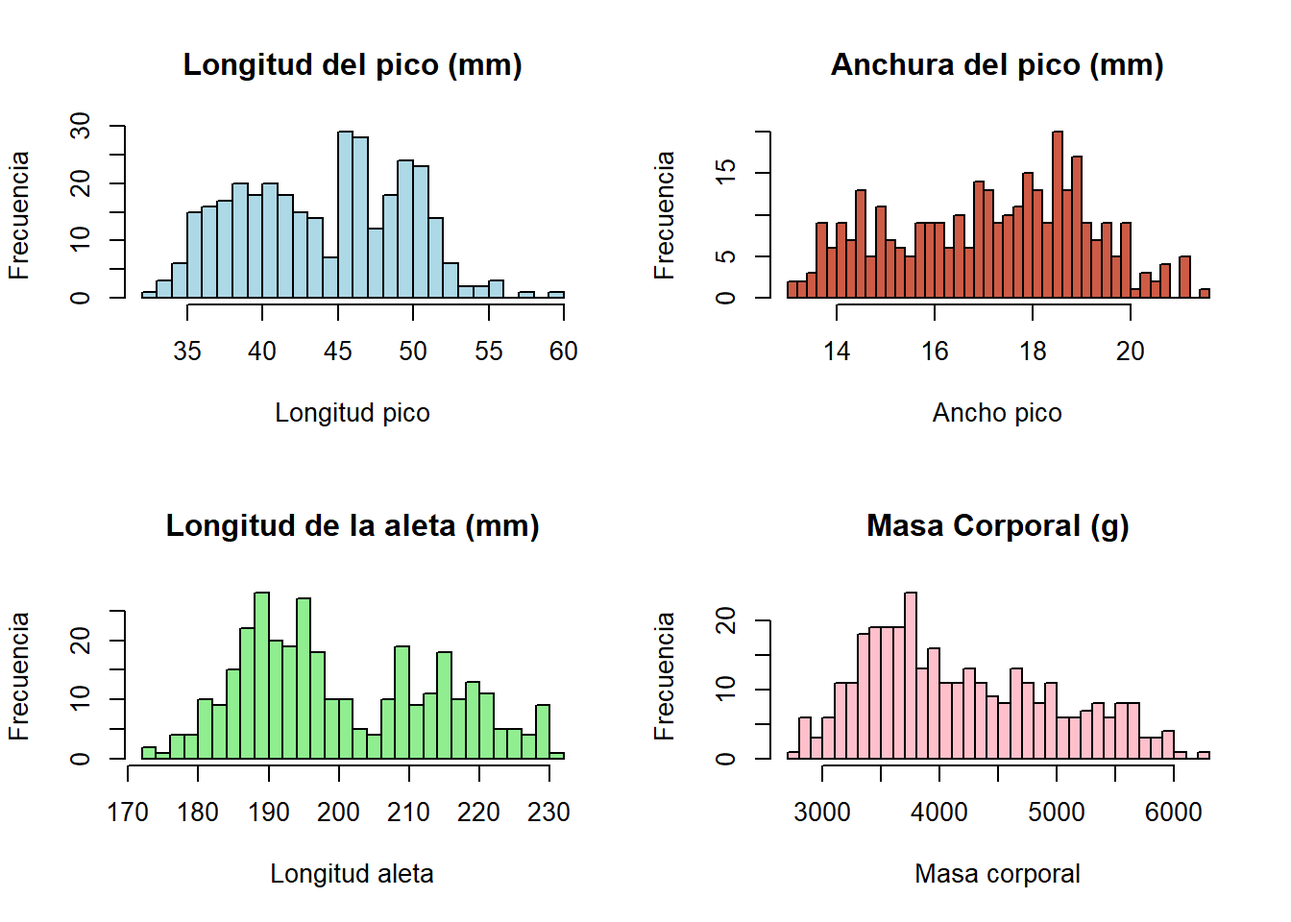
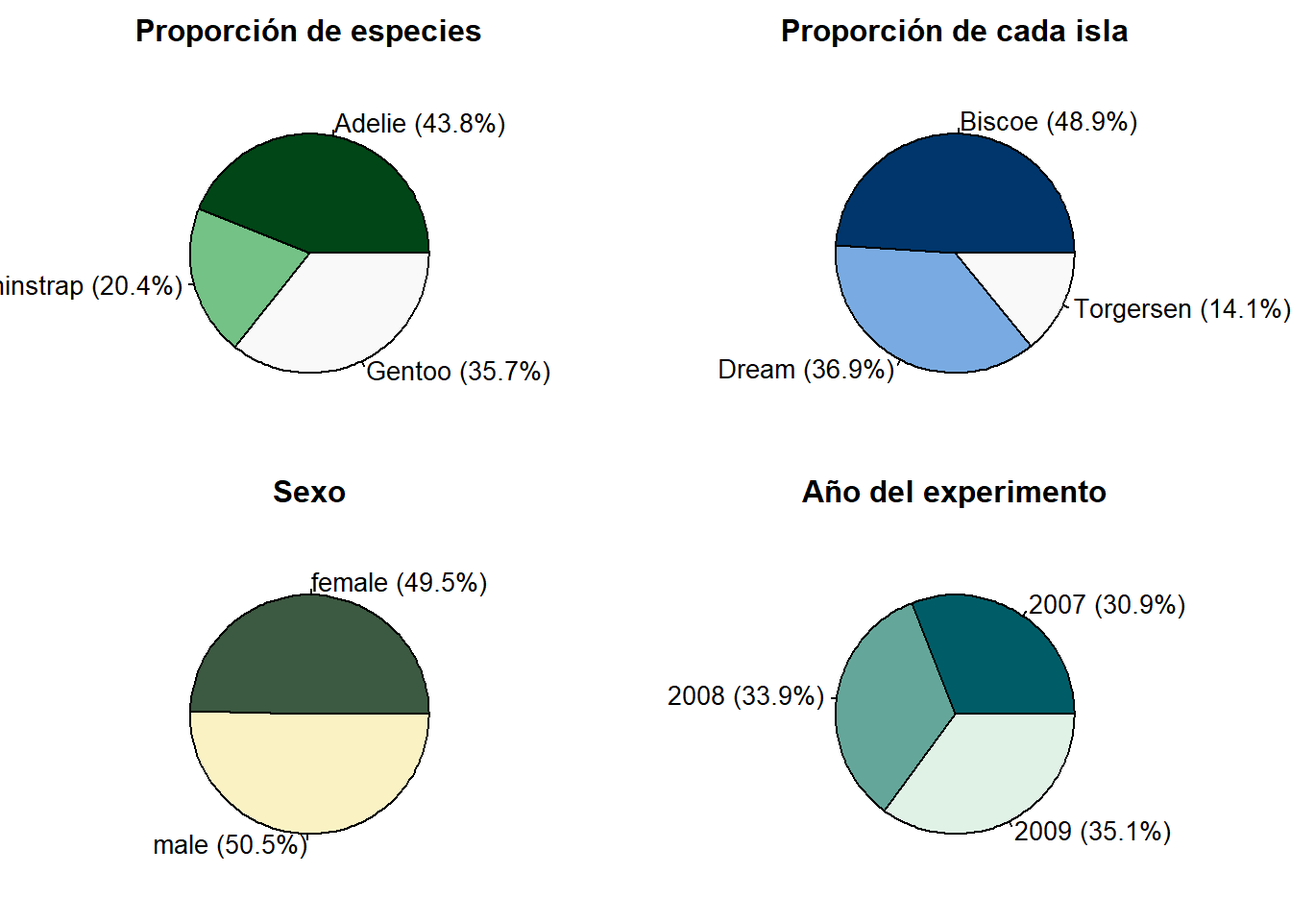
cambios Xisco Irene

diff --git a/prueba.html b/prueba.html
@@ -181,10 +181,11 @@ pre > code.sourceCode > span > a:first-child::before { text-decoration: underlin
 # ℹ 2 more variables: sex &lt;fct&gt;, year &lt;int&gt;</code></pre>
 </div>
 </div>
-<p>Primero de todo, observemos que hay muestras que tienen valores desconocidos (NA), por tanto, vamos a eliminar dichas observaciones:</p>
+<p>Primero de todo, observemos que hay muestras que tienen valores desconocidos (NA), por tanto, vamos a eliminar dichas observaciones. Además, la variable <code>year</code> conviene que sea del tipo factor:</p>
 <div class="cell">
 <div class="sourceCode cell-code" id="cb6"><pre class="sourceCode r code-with-copy"><code class="sourceCode r"><span id="cb6-1"><a href="#cb6-1" aria-hidden="true" tabindex="-1"></a>datos <span class="ot">=</span> <span class="fu">na.omit</span>(datos)</span>
-<span id="cb6-2"><a href="#cb6-2" aria-hidden="true" tabindex="-1"></a><span class="fu">summary</span>(datos)</span></code><button title="Copy to Clipboard" class="code-copy-button"><i class="bi"></i></button></pre></div>
+<span id="cb6-2"><a href="#cb6-2" aria-hidden="true" tabindex="-1"></a>datos<span class="sc">$</span>year <span class="ot">=</span> <span class="fu">as.factor</span>(datos<span class="sc">$</span>year)</span>
+<span id="cb6-3"><a href="#cb6-3" aria-hidden="true" tabindex="-1"></a><span class="fu">summary</span>(datos)</span></code><button title="Copy to Clipboard" class="code-copy-button"><i class="bi"></i></button></pre></div>
 <div class="cell-output cell-output-stdout">
 <pre><code>      species          island    bill_length_mm  bill_depth_mm  
  Adelie   :146   Biscoe   :163   Min.   :32.10   Min.   :13.10  
@@ -193,13 +194,13 @@ pre > code.sourceCode > span > a:first-child::before { text-decoration: underlin
                                  Mean   :43.99   Mean   :17.16  
                                  3rd Qu.:48.60   3rd Qu.:18.70  
                                  Max.   :59.60   Max.   :21.50  
- flipper_length_mm  body_mass_g       sex           year     
- Min.   :172       Min.   :2700   female:165   Min.   :2007  
- 1st Qu.:190       1st Qu.:3550   male  :168   1st Qu.:2007  
- Median :197       Median :4050                Median :2008  
- Mean   :201       Mean   :4207                Mean   :2008  
- 3rd Qu.:213       3rd Qu.:4775                3rd Qu.:2009  
- Max.   :231       Max.   :6300                Max.   :2009  </code></pre>
+ flipper_length_mm  body_mass_g       sex        year    
+ Min.   :172       Min.   :2700   female:165   2007:103  
+ 1st Qu.:190       1st Qu.:3550   male  :168   2008:113  
+ Median :197       Median :4050                2009:117  
+ Mean   :201       Mean   :4207                          
+ 3rd Qu.:213       3rd Qu.:4775                          
+ Max.   :231       Max.   :6300                          </code></pre>
 </div>
 </div>
 <section id="gráficos" class="level2">
@@ -219,21 +220,32 @@ pre > code.sourceCode > span > a:first-child::before { text-decoration: underlin
 <p><img src="prueba_files/figure-html/unnamed-chunk-4-1.png" class="img-fluid" width="672"></p>
 </div>
 </div>
+<div class="cell">
+<div class="sourceCode cell-code" id="cb9"><pre class="sourceCode r code-with-copy"><code class="sourceCode r"><span id="cb9-1"><a href="#cb9-1" aria-hidden="true" tabindex="-1"></a><span class="fu">par</span>(<span class="at">plt =</span> <span class="fu">c</span>(<span class="fl">0.1</span>, <span class="fl">0.86</span>, <span class="fl">0.1</span>, <span class="fl">0.8</span>))</span>
+<span id="cb9-2"><a href="#cb9-2" aria-hidden="true" tabindex="-1"></a><span class="fu">par</span>(<span class="at">mfrow=</span><span class="fu">c</span>(<span class="dv">2</span>,<span class="dv">2</span>))</span>
+<span id="cb9-3"><a href="#cb9-3" aria-hidden="true" tabindex="-1"></a><span class="fu">pie</span>(<span class="fu">table</span>(datos<span class="sc">$</span>species), <span class="at">labels =</span> <span class="fu">paste0</span>(<span class="fu">names</span>(<span class="fu">table</span>(datos<span class="sc">$</span>species)), <span class="st">" ("</span>, <span class="fu">round</span>(<span class="fu">prop.table</span>(<span class="fu">table</span>(datos<span class="sc">$</span>species)) <span class="sc">*</span> <span class="dv">100</span>, <span class="dv">1</span>), <span class="st">"%)"</span>), <span class="at">col =</span> <span class="fu">hcl.colors</span>(<span class="dv">3</span>, <span class="st">"Greens 3"</span>), <span class="at">main =</span> <span class="st">"Proporción de especies"</span>)</span>
+<span id="cb9-4"><a href="#cb9-4" aria-hidden="true" tabindex="-1"></a><span class="fu">pie</span>(<span class="fu">table</span>(datos<span class="sc">$</span>island), <span class="at">labels =</span> <span class="fu">paste0</span>(<span class="fu">names</span>(<span class="fu">table</span>(datos<span class="sc">$</span>island)), <span class="st">" ("</span>, <span class="fu">round</span>(<span class="fu">prop.table</span>(<span class="fu">table</span>(datos<span class="sc">$</span>island)) <span class="sc">*</span> <span class="dv">100</span>, <span class="dv">1</span>), <span class="st">"%)"</span>), <span class="at">col =</span> <span class="fu">hcl.colors</span>(<span class="dv">3</span>, <span class="st">"Blues 3"</span>), <span class="at">main =</span> <span class="st">"Proporción de cada isla"</span>)</span>
+<span id="cb9-5"><a href="#cb9-5" aria-hidden="true" tabindex="-1"></a><span class="fu">pie</span>(<span class="fu">table</span>(datos<span class="sc">$</span>sex), <span class="at">labels =</span> <span class="fu">paste0</span>(<span class="fu">names</span>(<span class="fu">table</span>(datos<span class="sc">$</span>sex)), <span class="st">" ("</span>, <span class="fu">round</span>(<span class="fu">prop.table</span>(<span class="fu">table</span>(datos<span class="sc">$</span>sex)) <span class="sc">*</span> <span class="dv">100</span>, <span class="dv">1</span>), <span class="st">"%)"</span>), <span class="at">col =</span> <span class="fu">hcl.colors</span>(<span class="dv">3</span>, <span class="st">"Fall"</span>), <span class="at">main =</span> <span class="st">"Sexo"</span>)</span>
+<span id="cb9-6"><a href="#cb9-6" aria-hidden="true" tabindex="-1"></a><span class="fu">pie</span>(<span class="fu">table</span>(datos<span class="sc">$</span>year), <span class="at">labels =</span> <span class="fu">paste0</span>(<span class="fu">names</span>(<span class="fu">table</span>(datos<span class="sc">$</span>year)), <span class="st">" ("</span>, <span class="fu">round</span>(<span class="fu">prop.table</span>(<span class="fu">table</span>(datos<span class="sc">$</span>year)) <span class="sc">*</span> <span class="dv">100</span>, <span class="dv">1</span>), <span class="st">"%)"</span>), <span class="at">col =</span> <span class="fu">hcl.colors</span>(<span class="dv">3</span>, <span class="st">"Mint"</span>), <span class="at">main =</span> <span class="st">"Año del experimento"</span>)</span></code><button title="Copy to Clipboard" class="code-copy-button"><i class="bi"></i></button></pre></div>
+<div class="cell-output-display">
+<p><img src="prueba_files/figure-html/unnamed-chunk-5-1.png" class="img-fluid" width="672"></p>
+</div>
+</div>
 </section>
 <section id="histogramas" class="level3">
 <h3 class="anchored" data-anchor-id="histogramas">Histogramas</h3>
 <p>A continuación, realizaremos unos histogramas de las variables <code>bill_length_mm</code>, <code>bill_depth_mm</code>, <code>flipper_length_mm</code> y <code>body_mass_g</code> para ver a simple vista la distribución de la población.</p>
 <div class="cell">
-<div class="sourceCode cell-code" id="cb9"><pre class="sourceCode r code-with-copy"><code class="sourceCode r"><span id="cb9-1"><a href="#cb9-1" aria-hidden="true" tabindex="-1"></a><span class="fu">par</span>(<span class="at">mfrow=</span><span class="fu">c</span>(<span class="dv">2</span>,<span class="dv">2</span>))</span>
-<span id="cb9-2"><a href="#cb9-2" aria-hidden="true" tabindex="-1"></a><span class="fu">hist</span>(datos<span class="sc">$</span>bill_length_mm, <span class="at">main=</span><span class="st">'Longitud del pico (mm)'</span>, <span class="at">breaks =</span> <span class="dv">30</span>, <span class="at">col =</span> <span class="st">'lightblue'</span>,</span>
-<span id="cb9-3"><a href="#cb9-3" aria-hidden="true" tabindex="-1"></a>     <span class="at">xlab =</span> <span class="st">"Longitud pico"</span>, <span class="at">ylab =</span> <span class="st">"Frecuencia"</span>)</span>
-<span id="cb9-4"><a href="#cb9-4" aria-hidden="true" tabindex="-1"></a><span class="fu">hist</span>(datos<span class="sc">$</span>bill_depth_mm, <span class="at">main=</span><span class="st">'Anchura del pico (mm)'</span>, <span class="at">breaks =</span> <span class="dv">35</span>, <span class="at">col =</span> <span class="st">'coral3'</span>,</span>
-<span id="cb9-5"><a href="#cb9-5" aria-hidden="true" tabindex="-1"></a>     <span class="at">xlab =</span> <span class="st">"Ancho pico"</span>, <span class="at">ylab =</span> <span class="st">"Frecuencia"</span>)</span>
-<span id="cb9-6"><a href="#cb9-6" aria-hidden="true" tabindex="-1"></a><span class="fu">hist</span>(datos<span class="sc">$</span>flipper_length_mm, <span class="at">main=</span><span class="st">'Longitud de la aleta (mm)'</span>, <span class="at">breaks =</span> <span class="dv">30</span>, <span class="at">col =</span> <span class="st">'lightgreen'</span>, <span class="at">xlab =</span> <span class="st">"Longitud aleta"</span>, <span class="at">ylab =</span> <span class="st">"Frecuencia"</span>)</span>
-<span id="cb9-7"><a href="#cb9-7" aria-hidden="true" tabindex="-1"></a><span class="fu">hist</span>(datos<span class="sc">$</span>body_mass_g, <span class="at">main=</span><span class="st">'Masa Corporal (g)'</span>, <span class="at">breaks =</span> <span class="dv">30</span>, <span class="at">col =</span> <span class="st">'pink'</span>,</span>
-<span id="cb9-8"><a href="#cb9-8" aria-hidden="true" tabindex="-1"></a>     <span class="at">xlab =</span> <span class="st">"Masa corporal"</span>, <span class="at">ylab =</span> <span class="st">"Frecuencia"</span>)</span></code><button title="Copy to Clipboard" class="code-copy-button"><i class="bi"></i></button></pre></div>
+<div class="sourceCode cell-code" id="cb10"><pre class="sourceCode r code-with-copy"><code class="sourceCode r"><span id="cb10-1"><a href="#cb10-1" aria-hidden="true" tabindex="-1"></a><span class="fu">par</span>(<span class="at">mfrow=</span><span class="fu">c</span>(<span class="dv">2</span>,<span class="dv">2</span>))</span>
+<span id="cb10-2"><a href="#cb10-2" aria-hidden="true" tabindex="-1"></a><span class="fu">hist</span>(datos<span class="sc">$</span>bill_length_mm, <span class="at">main=</span><span class="st">'Longitud del pico (mm)'</span>, <span class="at">breaks =</span> <span class="dv">30</span>, <span class="at">col =</span> <span class="st">'lightblue'</span>,</span>
+<span id="cb10-3"><a href="#cb10-3" aria-hidden="true" tabindex="-1"></a>     <span class="at">xlab =</span> <span class="st">"Longitud pico"</span>, <span class="at">ylab =</span> <span class="st">"Frecuencia"</span>)</span>
+<span id="cb10-4"><a href="#cb10-4" aria-hidden="true" tabindex="-1"></a><span class="fu">hist</span>(datos<span class="sc">$</span>bill_depth_mm, <span class="at">main=</span><span class="st">'Anchura del pico (mm)'</span>, <span class="at">breaks =</span> <span class="dv">35</span>, <span class="at">col =</span> <span class="st">'coral3'</span>,</span>
+<span id="cb10-5"><a href="#cb10-5" aria-hidden="true" tabindex="-1"></a>     <span class="at">xlab =</span> <span class="st">"Ancho pico"</span>, <span class="at">ylab =</span> <span class="st">"Frecuencia"</span>)</span>
+<span id="cb10-6"><a href="#cb10-6" aria-hidden="true" tabindex="-1"></a><span class="fu">hist</span>(datos<span class="sc">$</span>flipper_length_mm, <span class="at">main=</span><span class="st">'Longitud de la aleta (mm)'</span>, <span class="at">breaks =</span> <span class="dv">30</span>, <span class="at">col =</span> <span class="st">'lightgreen'</span>, <span class="at">xlab =</span> <span class="st">"Longitud aleta"</span>, <span class="at">ylab =</span> <span class="st">"Frecuencia"</span>)</span>
+<span id="cb10-7"><a href="#cb10-7" aria-hidden="true" tabindex="-1"></a><span class="fu">hist</span>(datos<span class="sc">$</span>body_mass_g, <span class="at">main=</span><span class="st">'Masa Corporal (g)'</span>, <span class="at">breaks =</span> <span class="dv">30</span>, <span class="at">col =</span> <span class="st">'pink'</span>,</span>
+<span id="cb10-8"><a href="#cb10-8" aria-hidden="true" tabindex="-1"></a>     <span class="at">xlab =</span> <span class="st">"Masa corporal"</span>, <span class="at">ylab =</span> <span class="st">"Frecuencia"</span>)</span></code><button title="Copy to Clipboard" class="code-copy-button"><i class="bi"></i></button></pre></div>
 <div class="cell-output-display">
-<p><img src="prueba_files/figure-html/unnamed-chunk-5-1.png" class="img-fluid" width="672"></p>
+<p><img src="prueba_files/figure-html/unnamed-chunk-6-1.png" class="img-fluid" width="672"></p>
 </div>
 </div>
 </section>
@@ -244,23 +256,23 @@ pre > code.sourceCode > span > a:first-child::before { text-decoration: underlin
 <p>Comparemos las medias de las variables cuantitativas en función de cada especie, que corresponden con las características físicas de cada pingüino.</p>
 <p>Para ello, dividamos el data frame por especies:</p>
 <div class="cell">
-<div class="sourceCode cell-code" id="cb10"><pre class="sourceCode r code-with-copy"><code class="sourceCode r"><span id="cb10-1"><a href="#cb10-1" aria-hidden="true" tabindex="-1"></a>ping_adelie <span class="ot">=</span> datos[datos<span class="sc">$</span>species<span class="sc">==</span><span class="st">"Adelie"</span>,]</span>
-<span id="cb10-2"><a href="#cb10-2" aria-hidden="true" tabindex="-1"></a>ping_chinstrap <span class="ot">=</span> datos[datos<span class="sc">$</span>species<span class="sc">==</span><span class="st">"Chinstrap"</span>,]</span>
-<span id="cb10-3"><a href="#cb10-3" aria-hidden="true" tabindex="-1"></a>ping_gentoo <span class="ot">=</span> datos[datos<span class="sc">$</span>species<span class="sc">==</span><span class="st">"Gentoo"</span>,]</span></code><button title="Copy to Clipboard" class="code-copy-button"><i class="bi"></i></button></pre></div>
+<div class="sourceCode cell-code" id="cb11"><pre class="sourceCode r code-with-copy"><code class="sourceCode r"><span id="cb11-1"><a href="#cb11-1" aria-hidden="true" tabindex="-1"></a>ping_adelie <span class="ot">=</span> datos[datos<span class="sc">$</span>species<span class="sc">==</span><span class="st">"Adelie"</span>,]</span>
+<span id="cb11-2"><a href="#cb11-2" aria-hidden="true" tabindex="-1"></a>ping_chinstrap <span class="ot">=</span> datos[datos<span class="sc">$</span>species<span class="sc">==</span><span class="st">"Chinstrap"</span>,]</span>
+<span id="cb11-3"><a href="#cb11-3" aria-hidden="true" tabindex="-1"></a>ping_gentoo <span class="ot">=</span> datos[datos<span class="sc">$</span>species<span class="sc">==</span><span class="st">"Gentoo"</span>,]</span></code><button title="Copy to Clipboard" class="code-copy-button"><i class="bi"></i></button></pre></div>
 </div>
 <section id="longitud-del-pico" class="level2">
 <h2 class="anchored" data-anchor-id="longitud-del-pico">Longitud del pico</h2>
 <p>Veamos la media de la longitud del pico de cada especie</p>
 <div class="cell">
-<div class="sourceCode cell-code" id="cb11"><pre class="sourceCode r code-with-copy"><code class="sourceCode r"><span id="cb11-1"><a href="#cb11-1" aria-hidden="true" tabindex="-1"></a><span class="fu">mean</span>(ping_adelie<span class="sc">$</span>bill_length_mm)</span></code><button title="Copy to Clipboard" class="code-copy-button"><i class="bi"></i></button></pre></div>
+<div class="sourceCode cell-code" id="cb12"><pre class="sourceCode r code-with-copy"><code class="sourceCode r"><span id="cb12-1"><a href="#cb12-1" aria-hidden="true" tabindex="-1"></a><span class="fu">mean</span>(ping_adelie<span class="sc">$</span>bill_length_mm)</span></code><button title="Copy to Clipboard" class="code-copy-button"><i class="bi"></i></button></pre></div>
 <div class="cell-output cell-output-stdout">
 <pre><code>[1] 38.82397</code></pre>
 </div>
-<div class="sourceCode cell-code" id="cb13"><pre class="sourceCode r code-with-copy"><code class="sourceCode r"><span id="cb13-1"><a href="#cb13-1" aria-hidden="true" tabindex="-1"></a><span class="fu">mean</span>(ping_chinstrap<span class="sc">$</span>bill_length_mm)</span></code><button title="Copy to Clipboard" class="code-copy-button"><i class="bi"></i></button></pre></div>
+<div class="sourceCode cell-code" id="cb14"><pre class="sourceCode r code-with-copy"><code class="sourceCode r"><span id="cb14-1"><a href="#cb14-1" aria-hidden="true" tabindex="-1"></a><span class="fu">mean</span>(ping_chinstrap<span class="sc">$</span>bill_length_mm)</span></code><button title="Copy to Clipboard" class="code-copy-button"><i class="bi"></i></button></pre></div>
 <div class="cell-output cell-output-stdout">
 <pre><code>[1] 48.83382</code></pre>
 </div>
-<div class="sourceCode cell-code" id="cb15"><pre class="sourceCode r code-with-copy"><code class="sourceCode r"><span id="cb15-1"><a href="#cb15-1" aria-hidden="true" tabindex="-1"></a><span class="fu">mean</span>(ping_gentoo<span class="sc">$</span>bill_length_mm)</span></code><button title="Copy to Clipboard" class="code-copy-button"><i class="bi"></i></button></pre></div>
+<div class="sourceCode cell-code" id="cb16"><pre class="sourceCode r code-with-copy"><code class="sourceCode r"><span id="cb16-1"><a href="#cb16-1" aria-hidden="true" tabindex="-1"></a><span class="fu">mean</span>(ping_gentoo<span class="sc">$</span>bill_length_mm)</span></code><button title="Copy to Clipboard" class="code-copy-button"><i class="bi"></i></button></pre></div>
 <div class="cell-output cell-output-stdout">
 <pre><code>[1] 47.56807</code></pre>
 </div>
@@ -268,22 +280,22 @@ pre > code.sourceCode > span > a:first-child::before { text-decoration: underlin
 <p>Notemos que los pinguinos de especie <code>Adelie</code> de media tienen el pico mas corto que las otras dos especies.</p>
 <div class="cell">
 <div class="cell-output-display">
-<p><img src="prueba_files/figure-html/unnamed-chunk-8-1.png" class="img-fluid" width="672"></p>
+<p><img src="prueba_files/figure-html/unnamed-chunk-9-1.png" class="img-fluid" width="672"></p>
 </div>
 </div>
 </section>
 <section id="ancho-del-pico" class="level2">
 <h2 class="anchored" data-anchor-id="ancho-del-pico">Ancho del pico</h2>
 <div class="cell">
-<div class="sourceCode cell-code" id="cb17"><pre class="sourceCode r code-with-copy"><code class="sourceCode r"><span id="cb17-1"><a href="#cb17-1" aria-hidden="true" tabindex="-1"></a><span class="fu">mean</span>(ping_adelie<span class="sc">$</span>bill_depth_mm)</span></code><button title="Copy to Clipboard" class="code-copy-button"><i class="bi"></i></button></pre></div>
+<div class="sourceCode cell-code" id="cb18"><pre class="sourceCode r code-with-copy"><code class="sourceCode r"><span id="cb18-1"><a href="#cb18-1" aria-hidden="true" tabindex="-1"></a><span class="fu">mean</span>(ping_adelie<span class="sc">$</span>bill_depth_mm)</span></code><button title="Copy to Clipboard" class="code-copy-button"><i class="bi"></i></button></pre></div>
 <div class="cell-output cell-output-stdout">
 <pre><code>[1] 18.34726</code></pre>
 </div>
-<div class="sourceCode cell-code" id="cb19"><pre class="sourceCode r code-with-copy"><code class="sourceCode r"><span id="cb19-1"><a href="#cb19-1" aria-hidden="true" tabindex="-1"></a><span class="fu">mean</span>(ping_chinstrap<span class="sc">$</span>bill_depth_mm)</span></code><button title="Copy to Clipboard" class="code-copy-button"><i class="bi"></i></button></pre></div>
+<div class="sourceCode cell-code" id="cb20"><pre class="sourceCode r code-with-copy"><code class="sourceCode r"><span id="cb20-1"><a href="#cb20-1" aria-hidden="true" tabindex="-1"></a><span class="fu">mean</span>(ping_chinstrap<span class="sc">$</span>bill_depth_mm)</span></code><button title="Copy to Clipboard" class="code-copy-button"><i class="bi"></i></button></pre></div>
 <div class="cell-output cell-output-stdout">
 <pre><code>[1] 18.42059</code></pre>
 </div>
-<div class="sourceCode cell-code" id="cb21"><pre class="sourceCode r code-with-copy"><code class="sourceCode r"><span id="cb21-1"><a href="#cb21-1" aria-hidden="true" tabindex="-1"></a><span class="fu">mean</span>(ping_gentoo<span class="sc">$</span>bill_depth_mm)</span></code><button title="Copy to Clipboard" class="code-copy-button"><i class="bi"></i></button></pre></div>
+<div class="sourceCode cell-code" id="cb22"><pre class="sourceCode r code-with-copy"><code class="sourceCode r"><span id="cb22-1"><a href="#cb22-1" aria-hidden="true" tabindex="-1"></a><span class="fu">mean</span>(ping_gentoo<span class="sc">$</span>bill_depth_mm)</span></code><button title="Copy to Clipboard" class="code-copy-button"><i class="bi"></i></button></pre></div>
 <div class="cell-output cell-output-stdout">
 <pre><code>[1] 14.99664</code></pre>
 </div>
@@ -291,22 +303,22 @@ pre > code.sourceCode > span > a:first-child::before { text-decoration: underlin
 <p>Notemos que los pinguinos de especie <code>Gentoo</code> de media tienen el pico menos ancho que las otras dos especies.</p>
 <div class="cell">
 <div class="cell-output-display">
-<p><img src="prueba_files/figure-html/unnamed-chunk-10-1.png" class="img-fluid" width="672"></p>
+<p><img src="prueba_files/figure-html/unnamed-chunk-11-1.png" class="img-fluid" width="672"></p>
 </div>
 </div>
 </section>
 <section id="longitud-de-la-aleta" class="level2">
 <h2 class="anchored" data-anchor-id="longitud-de-la-aleta">Longitud de la aleta</h2>
 <div class="cell">
-<div class="sourceCode cell-code" id="cb23"><pre class="sourceCode r code-with-copy"><code class="sourceCode r"><span id="cb23-1"><a href="#cb23-1" aria-hidden="true" tabindex="-1"></a><span class="fu">mean</span>(ping_adelie<span class="sc">$</span>flipper_length_mm)</span></code><button title="Copy to Clipboard" class="code-copy-button"><i class="bi"></i></button></pre></div>
+<div class="sourceCode cell-code" id="cb24"><pre class="sourceCode r code-with-copy"><code class="sourceCode r"><span id="cb24-1"><a href="#cb24-1" aria-hidden="true" tabindex="-1"></a><span class="fu">mean</span>(ping_adelie<span class="sc">$</span>flipper_length_mm)</span></code><button title="Copy to Clipboard" class="code-copy-button"><i class="bi"></i></button></pre></div>
 <div class="cell-output cell-output-stdout">
 <pre><code>[1] 190.1027</code></pre>
 </div>
-<div class="sourceCode cell-code" id="cb25"><pre class="sourceCode r code-with-copy"><code class="sourceCode r"><span id="cb25-1"><a href="#cb25-1" aria-hidden="true" tabindex="-1"></a><span class="fu">mean</span>(ping_chinstrap<span class="sc">$</span>flipper_length_mm)</span></code><button title="Copy to Clipboard" class="code-copy-button"><i class="bi"></i></button></pre></div>
+<div class="sourceCode cell-code" id="cb26"><pre class="sourceCode r code-with-copy"><code class="sourceCode r"><span id="cb26-1"><a href="#cb26-1" aria-hidden="true" tabindex="-1"></a><span class="fu">mean</span>(ping_chinstrap<span class="sc">$</span>flipper_length_mm)</span></code><button title="Copy to Clipboard" class="code-copy-button"><i class="bi"></i></button></pre></div>
 <div class="cell-output cell-output-stdout">
 <pre><code>[1] 195.8235</code></pre>
 </div>
-<div class="sourceCode cell-code" id="cb27"><pre class="sourceCode r code-with-copy"><code class="sourceCode r"><span id="cb27-1"><a href="#cb27-1" aria-hidden="true" tabindex="-1"></a><span class="fu">mean</span>(ping_gentoo<span class="sc">$</span>flipper_length_mm)</span></code><button title="Copy to Clipboard" class="code-copy-button"><i class="bi"></i></button></pre></div>
+<div class="sourceCode cell-code" id="cb28"><pre class="sourceCode r code-with-copy"><code class="sourceCode r"><span id="cb28-1"><a href="#cb28-1" aria-hidden="true" tabindex="-1"></a><span class="fu">mean</span>(ping_gentoo<span class="sc">$</span>flipper_length_mm)</span></code><button title="Copy to Clipboard" class="code-copy-button"><i class="bi"></i></button></pre></div>
 <div class="cell-output cell-output-stdout">
 <pre><code>[1] 217.2353</code></pre>
 </div>
@@ -314,16 +326,16 @@ pre > code.sourceCode > span > a:first-child::before { text-decoration: underlin
 <p>Notemos que los pinguinos de especie <code>Gentoo</code> de media tienen la aleta más larga que las otras dos especies.</p>
 <div class="cell">
 <div class="cell-output-display">
-<p><img src="prueba_files/figure-html/unnamed-chunk-12-1.png" class="img-fluid" width="672"></p>
+<p><img src="prueba_files/figure-html/unnamed-chunk-13-1.png" class="img-fluid" width="672"></p>
 </div>
 </div>
 </section>
 <section id="masa-corporal" class="level2">
 <h2 class="anchored" data-anchor-id="masa-corporal">Masa corporal</h2>
 <div class="cell">
-<div class="sourceCode cell-code" id="cb29"><pre class="sourceCode r code-with-copy"><code class="sourceCode r"><span id="cb29-1"><a href="#cb29-1" aria-hidden="true" tabindex="-1"></a><span class="fu">mean</span>(ping_adelie<span class="sc">$</span>body_mass_g)</span>
-<span id="cb29-2"><a href="#cb29-2" aria-hidden="true" tabindex="-1"></a><span class="fu">mean</span>(ping_chinstrap<span class="sc">$</span>body_mass_g)</span>
-<span id="cb29-3"><a href="#cb29-3" aria-hidden="true" tabindex="-1"></a><span class="fu">mean</span>(ping_gentoo<span class="sc">$</span>body_mass_g)</span></code><button title="Copy to Clipboard" class="code-copy-button"><i class="bi"></i></button></pre></div>
+<div class="sourceCode cell-code" id="cb30"><pre class="sourceCode r code-with-copy"><code class="sourceCode r"><span id="cb30-1"><a href="#cb30-1" aria-hidden="true" tabindex="-1"></a><span class="fu">mean</span>(ping_adelie<span class="sc">$</span>body_mass_g)</span>
+<span id="cb30-2"><a href="#cb30-2" aria-hidden="true" tabindex="-1"></a><span class="fu">mean</span>(ping_chinstrap<span class="sc">$</span>body_mass_g)</span>
+<span id="cb30-3"><a href="#cb30-3" aria-hidden="true" tabindex="-1"></a><span class="fu">mean</span>(ping_gentoo<span class="sc">$</span>body_mass_g)</span></code><button title="Copy to Clipboard" class="code-copy-button"><i class="bi"></i></button></pre></div>
 <div class="cell-output cell-output-stdout">
 <pre><code>[1] 3706.164
 [1] 3733.088
@@ -333,7 +345,7 @@ pre > code.sourceCode > span > a:first-child::before { text-decoration: underlin
 <p>Notemos que los pinguinos de especie <code>Gentoo</code> de media tienen mas masa corporal que las otras dos especies. Y como hemos visto en el apartado de correlación, seguramente se debe a que la especie <code>Gentoo</code> es más grande que las otras dos.</p>
 <div class="cell">
 <div class="cell-output-display">
-<p><img src="prueba_files/figure-html/unnamed-chunk-14-1.png" class="img-fluid" width="672"></p>
+<p><img src="prueba_files/figure-html/unnamed-chunk-15-1.png" class="img-fluid" width="672"></p>
 </div>
 </div>
 </section>
@@ -342,12 +354,12 @@ pre > code.sourceCode > span > a:first-child::before { text-decoration: underlin
 <h1>Correlación de las variables</h1>
 <p>Veamos si existe correlación, tanto positiva como negativa de las variables numéricas. Para ello, mostraremos una matriz de correlaciones.</p>
 <div class="cell">
-<div class="sourceCode cell-code" id="cb31"><pre class="sourceCode r code-with-copy"><code class="sourceCode r"><span id="cb31-1"><a href="#cb31-1" aria-hidden="true" tabindex="-1"></a><span class="fu">library</span>(psych)</span>
-<span id="cb31-2"><a href="#cb31-2" aria-hidden="true" tabindex="-1"></a>datos2 <span class="ot">=</span> datos[,<span class="fu">c</span>(<span class="sc">-</span><span class="dv">1</span>,<span class="sc">-</span><span class="dv">2</span>,<span class="sc">-</span><span class="dv">7</span>,<span class="sc">-</span><span class="dv">8</span>)] <span class="co"># eliminamos las variables no numéricas</span></span>
-<span id="cb31-3"><a href="#cb31-3" aria-hidden="true" tabindex="-1"></a>nombres <span class="ot">=</span> <span class="fu">c</span>(<span class="st">"Longitud pico"</span>, <span class="st">"Ancho pico"</span>, <span class="st">"Longitud aleta"</span>, <span class="st">"Masa corporal"</span>)</span>
-<span id="cb31-4"><a href="#cb31-4" aria-hidden="true" tabindex="-1"></a><span class="fu">corPlot</span>(datos2, <span class="at">cex =</span> <span class="fl">0.8</span>,  <span class="at">main =</span> <span class="st">"Matriz de correlación"</span>, <span class="at">labels =</span> nombres)</span></code><button title="Copy to Clipboard" class="code-copy-button"><i class="bi"></i></button></pre></div>
+<div class="sourceCode cell-code" id="cb32"><pre class="sourceCode r code-with-copy"><code class="sourceCode r"><span id="cb32-1"><a href="#cb32-1" aria-hidden="true" tabindex="-1"></a><span class="fu">library</span>(psych)</span>
+<span id="cb32-2"><a href="#cb32-2" aria-hidden="true" tabindex="-1"></a>datos2 <span class="ot">=</span> datos[,<span class="fu">c</span>(<span class="sc">-</span><span class="dv">1</span>,<span class="sc">-</span><span class="dv">2</span>,<span class="sc">-</span><span class="dv">7</span>,<span class="sc">-</span><span class="dv">8</span>)] <span class="co"># eliminamos las variables no numéricas</span></span>
+<span id="cb32-3"><a href="#cb32-3" aria-hidden="true" tabindex="-1"></a>nombres <span class="ot">=</span> <span class="fu">c</span>(<span class="st">"Longitud pico"</span>, <span class="st">"Ancho pico"</span>, <span class="st">"Longitud aleta"</span>, <span class="st">"Masa corporal"</span>)</span>
+<span id="cb32-4"><a href="#cb32-4" aria-hidden="true" tabindex="-1"></a><span class="fu">corPlot</span>(datos2, <span class="at">cex =</span> <span class="fl">0.8</span>,  <span class="at">main =</span> <span class="st">"Matriz de correlación"</span>, <span class="at">labels =</span> nombres)</span></code><button title="Copy to Clipboard" class="code-copy-button"><i class="bi"></i></button></pre></div>
 <div class="cell-output-display">
-<p><img src="prueba_files/figure-html/unnamed-chunk-15-1.png" class="img-fluid" width="672"></p>
+<p><img src="prueba_files/figure-html/unnamed-chunk-16-1.png" class="img-fluid" width="672"></p>
 </div>
 </div>
 <p>Cabe destacar la correlación fuerte positiva (valor de +0.87) entre la masa corporal y la longitud de las alas de los pingüinos, es decir, a mayor masa corporal, mayor longitud de alas, lo que da a pensar que si hay una especie que tenga, en general, mayor peso, será porque el animal es más grande.</p>
@@ -357,17 +369,17 @@ pre > code.sourceCode > span > a:first-child::before { text-decoration: underlin
 <section id="comparaciones-geográficas" class="level1">
 <h1>Comparaciones geográficas</h1>
 <div class="cell">
-<div class="sourceCode cell-code" id="cb32"><pre class="sourceCode r code-with-copy"><code class="sourceCode r"><span id="cb32-1"><a href="#cb32-1" aria-hidden="true" tabindex="-1"></a><span class="co"># Una vez hemos estudiado las medias de los valores cuantitativos de las características de los pingüinos, podemos ver si hay diferencias entre islas.</span></span>
-<span id="cb32-2"><a href="#cb32-2" aria-hidden="true" tabindex="-1"></a></span>
-<span id="cb32-3"><a href="#cb32-3" aria-hidden="true" tabindex="-1"></a><span class="co"># PENSAR BÉ COM ENFOCAR-HO, ES A DIR, SERIA INTERESSANT VEURE QUINES DADES TENEN MAJOR DISPERSIÓ PER ESTUDIAR SI AFECTA GEOGRAFICAMENT, IE, IMAGINA QUE SURT QUE ES PINGÜINOS GENTOO TENEN ES BEC MES LLARG I A MES MOSTREN DISPERSIO EN SES DADES, PUES POT SER QUE A UNA ILLA, PER ES TIPUS DE MENJAR, TENGUIN ES BEC MES LLARG O MES CURT I FACI ALTERAR SA MITJANA</span></span></code><button title="Copy to Clipboard" class="code-copy-button"><i class="bi"></i></button></pre></div>
+<div class="sourceCode cell-code" id="cb33"><pre class="sourceCode r code-with-copy"><code class="sourceCode r"><span id="cb33-1"><a href="#cb33-1" aria-hidden="true" tabindex="-1"></a><span class="co"># Una vez hemos estudiado las medias de los valores cuantitativos de las características de los pingüinos, podemos ver si hay diferencias entre islas.</span></span>
+<span id="cb33-2"><a href="#cb33-2" aria-hidden="true" tabindex="-1"></a></span>
+<span id="cb33-3"><a href="#cb33-3" aria-hidden="true" tabindex="-1"></a><span class="co"># PENSAR BÉ COM ENFOCAR-HO, ES A DIR, SERIA INTERESSANT VEURE QUINES DADES TENEN MAJOR DISPERSIÓ PER ESTUDIAR SI AFECTA GEOGRAFICAMENT, IE, IMAGINA QUE SURT QUE ES PINGÜINOS GENTOO TENEN ES BEC MES LLARG I A MES MOSTREN DISPERSIO EN SES DADES, PUES POT SER QUE A UNA ILLA, PER ES TIPUS DE MENJAR, TENGUIN ES BEC MES LLARG O MES CURT I FACI ALTERAR SA MITJANA</span></span></code><button title="Copy to Clipboard" class="code-copy-button"><i class="bi"></i></button></pre></div>
 </div>
 <p>En este apartado queremos ver si, a nivel muestral, los pingüinos de diferentes islas presentas diferencias significativas.</p>
 <div class="cell">
-<div class="sourceCode cell-code" id="cb33"><pre class="sourceCode r code-with-copy"><code class="sourceCode r"><span id="cb33-1"><a href="#cb33-1" aria-hidden="true" tabindex="-1"></a>ping_Biscoe <span class="ot">=</span> datos[datos<span class="sc">$</span>island<span class="sc">==</span><span class="st">"Biscoe"</span>,]</span>
-<span id="cb33-2"><a href="#cb33-2" aria-hidden="true" tabindex="-1"></a>ping_Dream <span class="ot">=</span> datos[datos<span class="sc">$</span>island<span class="sc">==</span><span class="st">"Dream"</span>,]</span>
-<span id="cb33-3"><a href="#cb33-3" aria-hidden="true" tabindex="-1"></a>ping_Torgersen <span class="ot">=</span> datos[datos<span class="sc">$</span>island<span class="sc">==</span><span class="st">"Torgersen"</span>,]</span>
-<span id="cb33-4"><a href="#cb33-4" aria-hidden="true" tabindex="-1"></a></span>
-<span id="cb33-5"><a href="#cb33-5" aria-hidden="true" tabindex="-1"></a><span class="fu">table</span>(datos<span class="sc">$</span>island, datos<span class="sc">$</span>species)</span></code><button title="Copy to Clipboard" class="code-copy-button"><i class="bi"></i></button></pre></div>
+<div class="sourceCode cell-code" id="cb34"><pre class="sourceCode r code-with-copy"><code class="sourceCode r"><span id="cb34-1"><a href="#cb34-1" aria-hidden="true" tabindex="-1"></a>ping_Biscoe <span class="ot">=</span> datos[datos<span class="sc">$</span>island<span class="sc">==</span><span class="st">"Biscoe"</span>,]</span>
+<span id="cb34-2"><a href="#cb34-2" aria-hidden="true" tabindex="-1"></a>ping_Dream <span class="ot">=</span> datos[datos<span class="sc">$</span>island<span class="sc">==</span><span class="st">"Dream"</span>,]</span>
+<span id="cb34-3"><a href="#cb34-3" aria-hidden="true" tabindex="-1"></a>ping_Torgersen <span class="ot">=</span> datos[datos<span class="sc">$</span>island<span class="sc">==</span><span class="st">"Torgersen"</span>,]</span>
+<span id="cb34-4"><a href="#cb34-4" aria-hidden="true" tabindex="-1"></a></span>
+<span id="cb34-5"><a href="#cb34-5" aria-hidden="true" tabindex="-1"></a><span class="fu">table</span>(datos<span class="sc">$</span>island, datos<span class="sc">$</span>species)</span></code><button title="Copy to Clipboard" class="code-copy-button"><i class="bi"></i></button></pre></div>
 <div class="cell-output cell-output-stdout">
 <pre><code>           
             Adelie Chinstrap Gentoo
@@ -379,15 +391,15 @@ pre > code.sourceCode > span > a:first-child::before { text-decoration: underlin
 <section id="longitud-del-pico-1" class="level2">
 <h2 class="anchored" data-anchor-id="longitud-del-pico-1">Longitud del pico</h2>
 <div class="cell">
-<div class="sourceCode cell-code" id="cb35"><pre class="sourceCode r code-with-copy"><code class="sourceCode r"><span id="cb35-1"><a href="#cb35-1" aria-hidden="true" tabindex="-1"></a><span class="fu">mean</span>(ping_Biscoe<span class="sc">$</span>bill_length_mm)</span></code><button title="Copy to Clipboard" class="code-copy-button"><i class="bi"></i></button></pre></div>
+<div class="sourceCode cell-code" id="cb36"><pre class="sourceCode r code-with-copy"><code class="sourceCode r"><span id="cb36-1"><a href="#cb36-1" aria-hidden="true" tabindex="-1"></a><span class="fu">mean</span>(ping_Biscoe<span class="sc">$</span>bill_length_mm)</span></code><button title="Copy to Clipboard" class="code-copy-button"><i class="bi"></i></button></pre></div>
 <div class="cell-output cell-output-stdout">
 <pre><code>[1] 45.24847</code></pre>
 </div>
-<div class="sourceCode cell-code" id="cb37"><pre class="sourceCode r code-with-copy"><code class="sourceCode r"><span id="cb37-1"><a href="#cb37-1" aria-hidden="true" tabindex="-1"></a><span class="fu">mean</span>(ping_Dream<span class="sc">$</span>bill_length_mm)</span></code><button title="Copy to Clipboard" class="code-copy-button"><i class="bi"></i></button></pre></div>
+<div class="sourceCode cell-code" id="cb38"><pre class="sourceCode r code-with-copy"><code class="sourceCode r"><span id="cb38-1"><a href="#cb38-1" aria-hidden="true" tabindex="-1"></a><span class="fu">mean</span>(ping_Dream<span class="sc">$</span>bill_length_mm)</span></code><button title="Copy to Clipboard" class="code-copy-button"><i class="bi"></i></button></pre></div>
 <div class="cell-output cell-output-stdout">
 <pre><code>[1] 44.22195</code></pre>
 </div>
-<div class="sourceCode cell-code" id="cb39"><pre class="sourceCode r code-with-copy"><code class="sourceCode r"><span id="cb39-1"><a href="#cb39-1" aria-hidden="true" tabindex="-1"></a><span class="fu">mean</span>(ping_Torgersen<span class="sc">$</span>bill_length_mm)</span></code><button title="Copy to Clipboard" class="code-copy-button"><i class="bi"></i></button></pre></div>
+<div class="sourceCode cell-code" id="cb40"><pre class="sourceCode r code-with-copy"><code class="sourceCode r"><span id="cb40-1"><a href="#cb40-1" aria-hidden="true" tabindex="-1"></a><span class="fu">mean</span>(ping_Torgersen<span class="sc">$</span>bill_length_mm)</span></code><button title="Copy to Clipboard" class="code-copy-button"><i class="bi"></i></button></pre></div>
 <div class="cell-output cell-output-stdout">
 <pre><code>[1] 39.0383</code></pre>
 </div>
